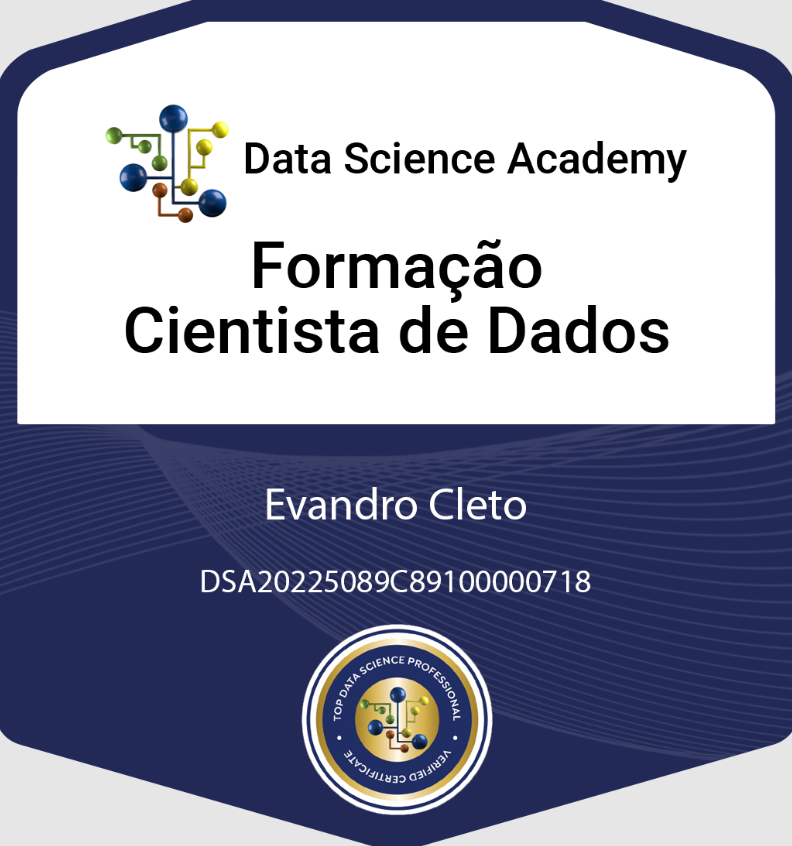
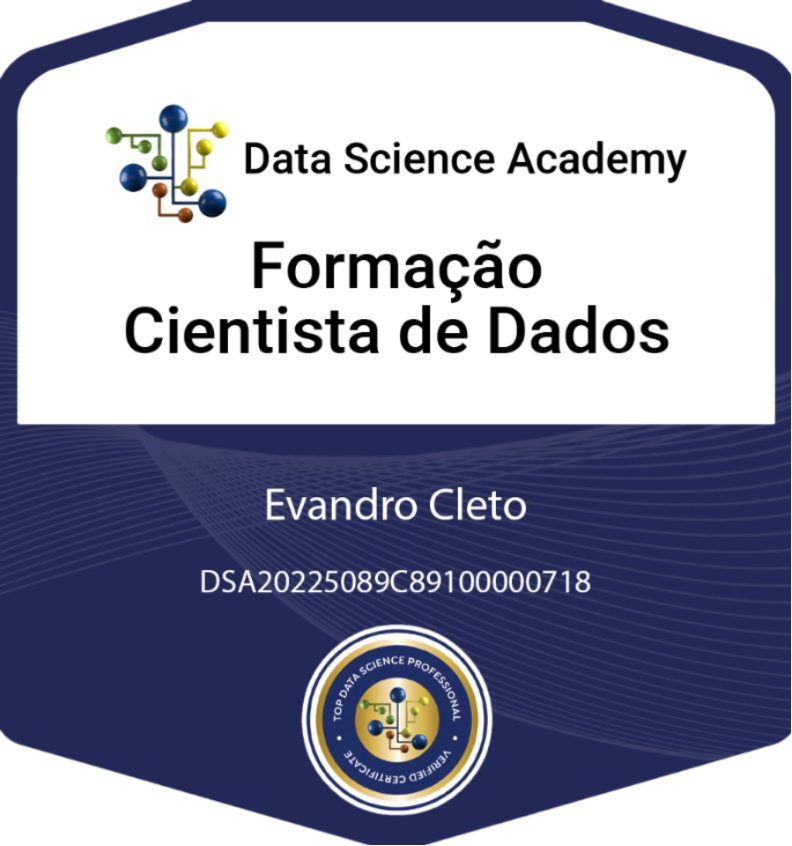
Atualização pagina inicial

diff --git a/Home.py b/Home.py
@@ -9,28 +9,43 @@ st.set_page_config(
 
 
 
-image = Image.open('Home_DSr.jpg')
-st.image(image,width=620)
+#image = Image.open('Home_DSr.jpg')
+#st.image(image,width=620)
 
 st.markdown('<div style="text-align: center;font-size: 40px"><b>Evandro Cleto</b></div>', unsafe_allow_html=True)
-st.markdown('<div style="text-align: center;font-size: 23px"><b>Data Scientist Certified Specialist | Generative IA</b></div>', unsafe_allow_html=True)
+st.markdown('<div style="text-align: center;font-size: 23px"><b>Data Scientist Certified Specialist | Oracle Generative IA Certified</b></div>', unsafe_allow_html=True)
 
 st.text("")
 
-col3, col4, col5  = st.columns(3)
+col1, col2, col3  = st.columns(3)
 
-with col3:
+with col1:
     image = Image.open('Badge_DSCS.png')
     st.image(image,width=160)
 
-with col4:
+with col2:
     image = Image.open('Badge_DSCP.png')
     st.image(image,width=160)
     
-with col5:
+with col3:
     image = Image.open('Badge_FCD.png')
     st.image(image,width=140)
 
+
+col4, col5, col6 = st.columns(3)
+
+
+with col4:
+    image = Image.open('Badge_FEI-3_0_PT.png')
+    st.image(image,width=160)
+    
+with col5:
+    image = Image.open('Badge_OCI23AIFCA.png')
+    st.image(image,width=140)
+
+with col6:
+    image = Image.open('Badge_OCI2024GAIOCP.png')
+    st.image(image,width=140)
 
 
 
